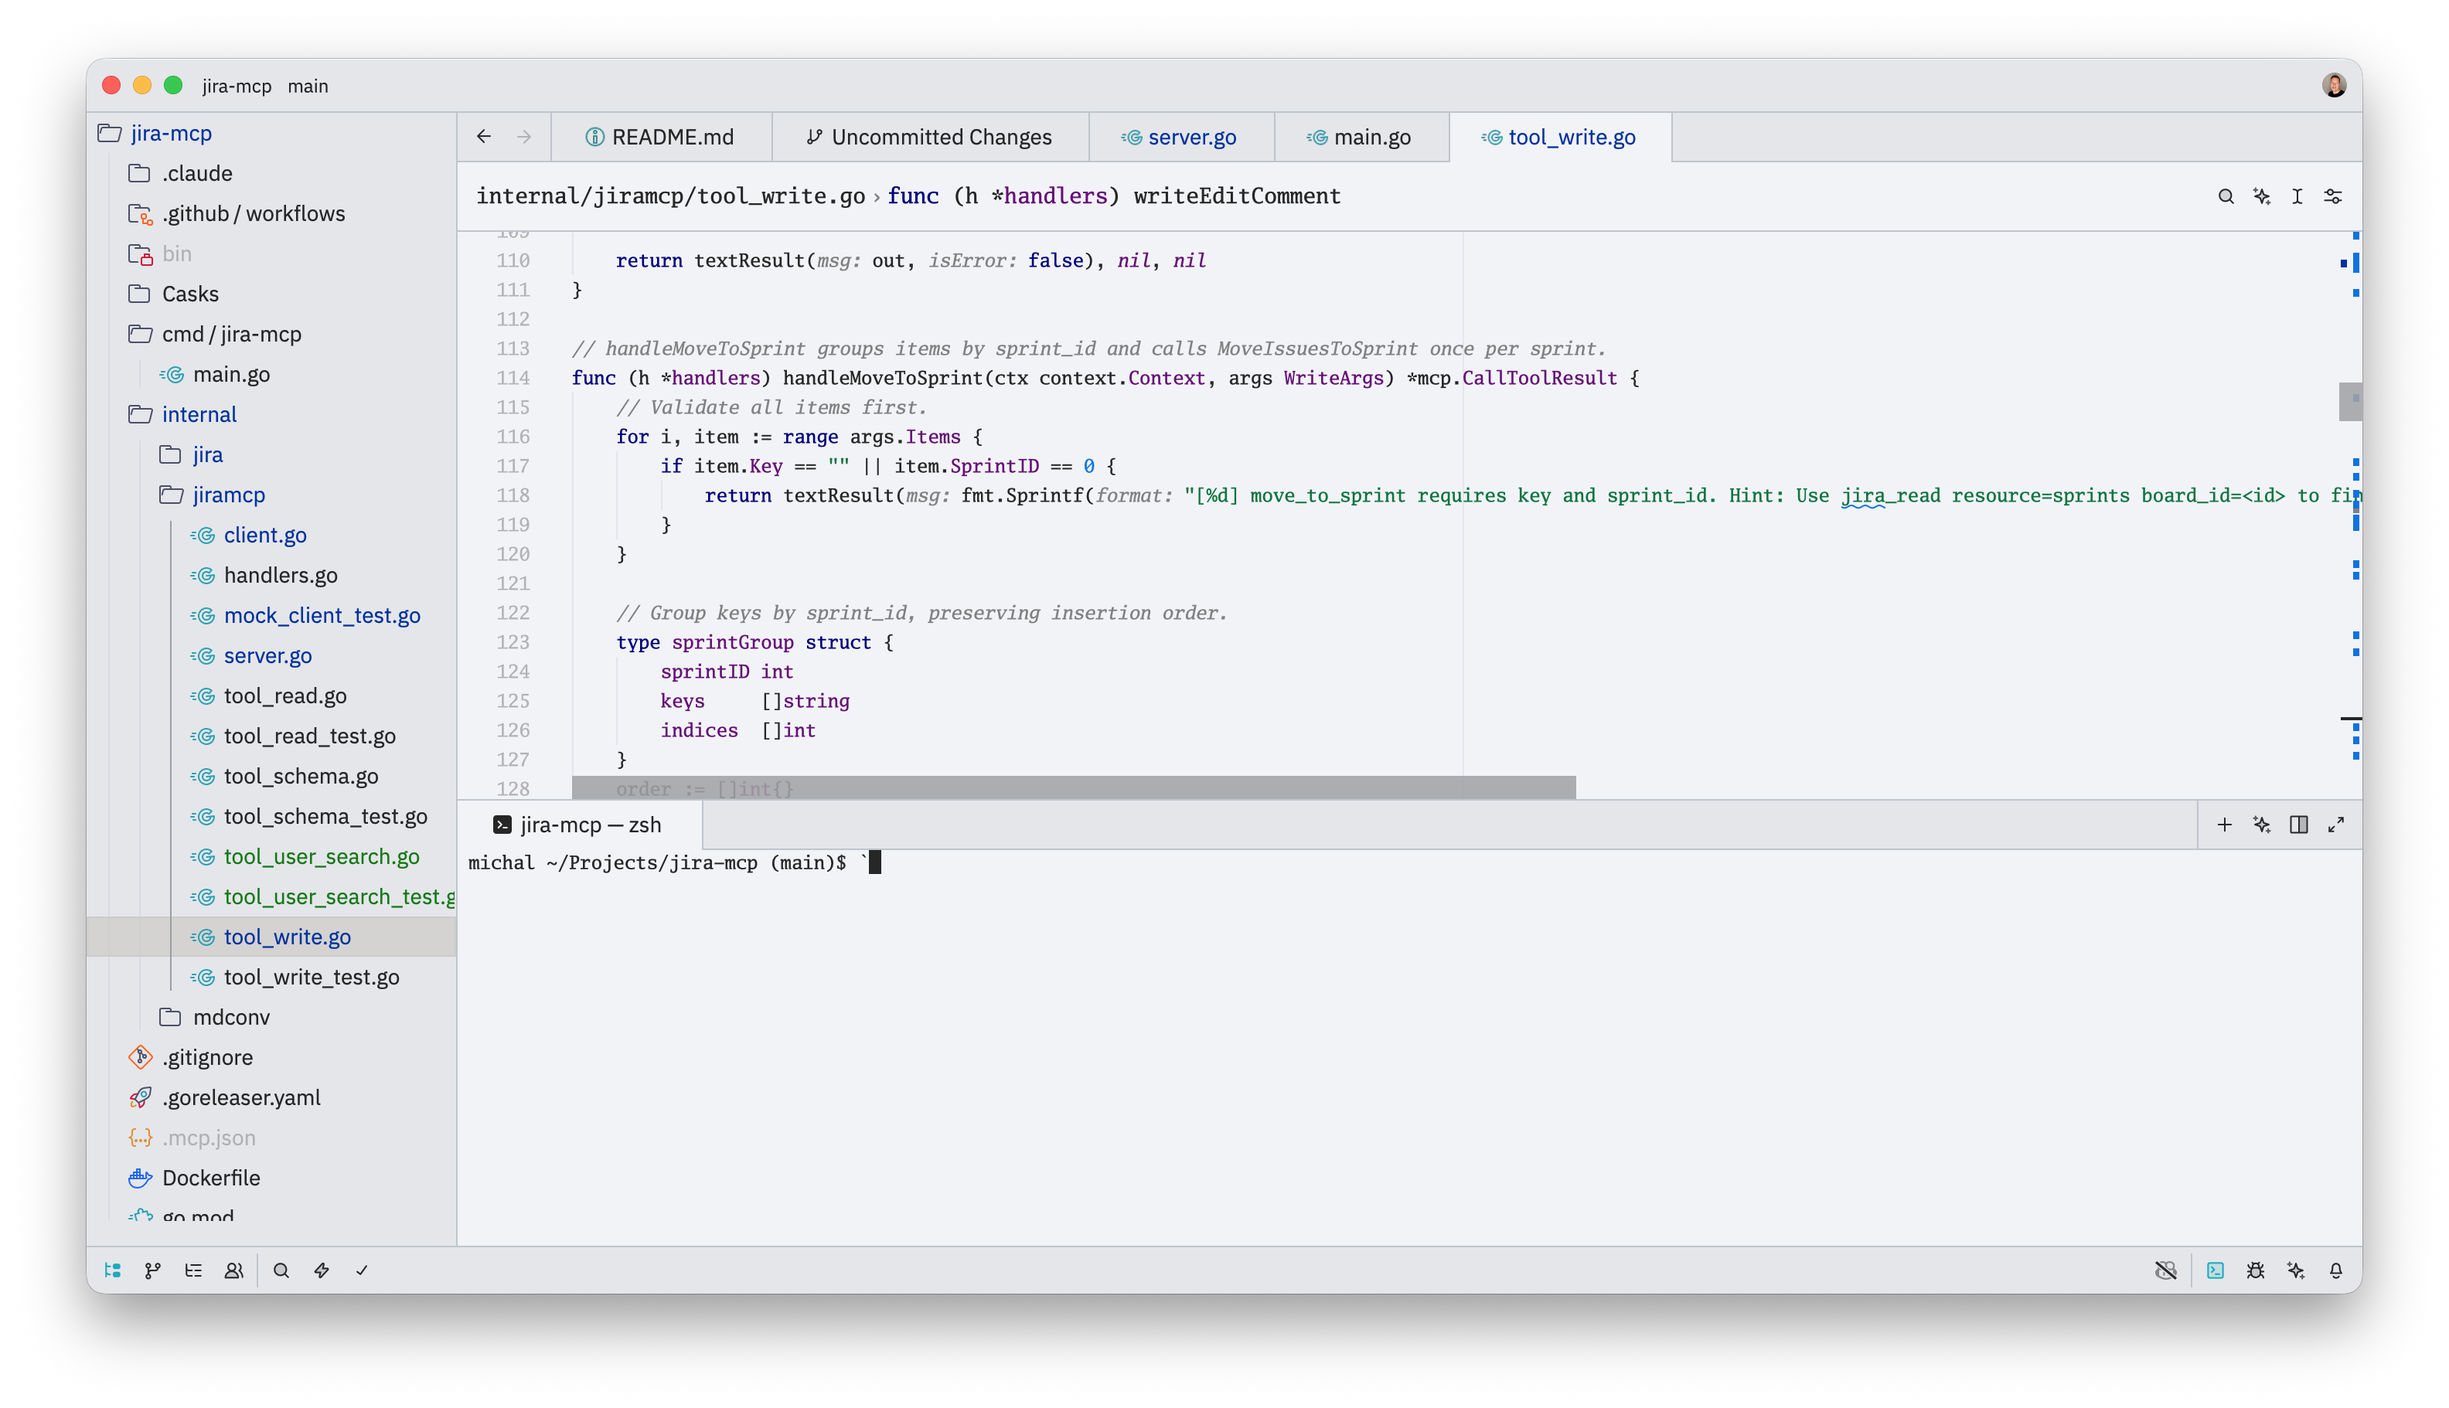
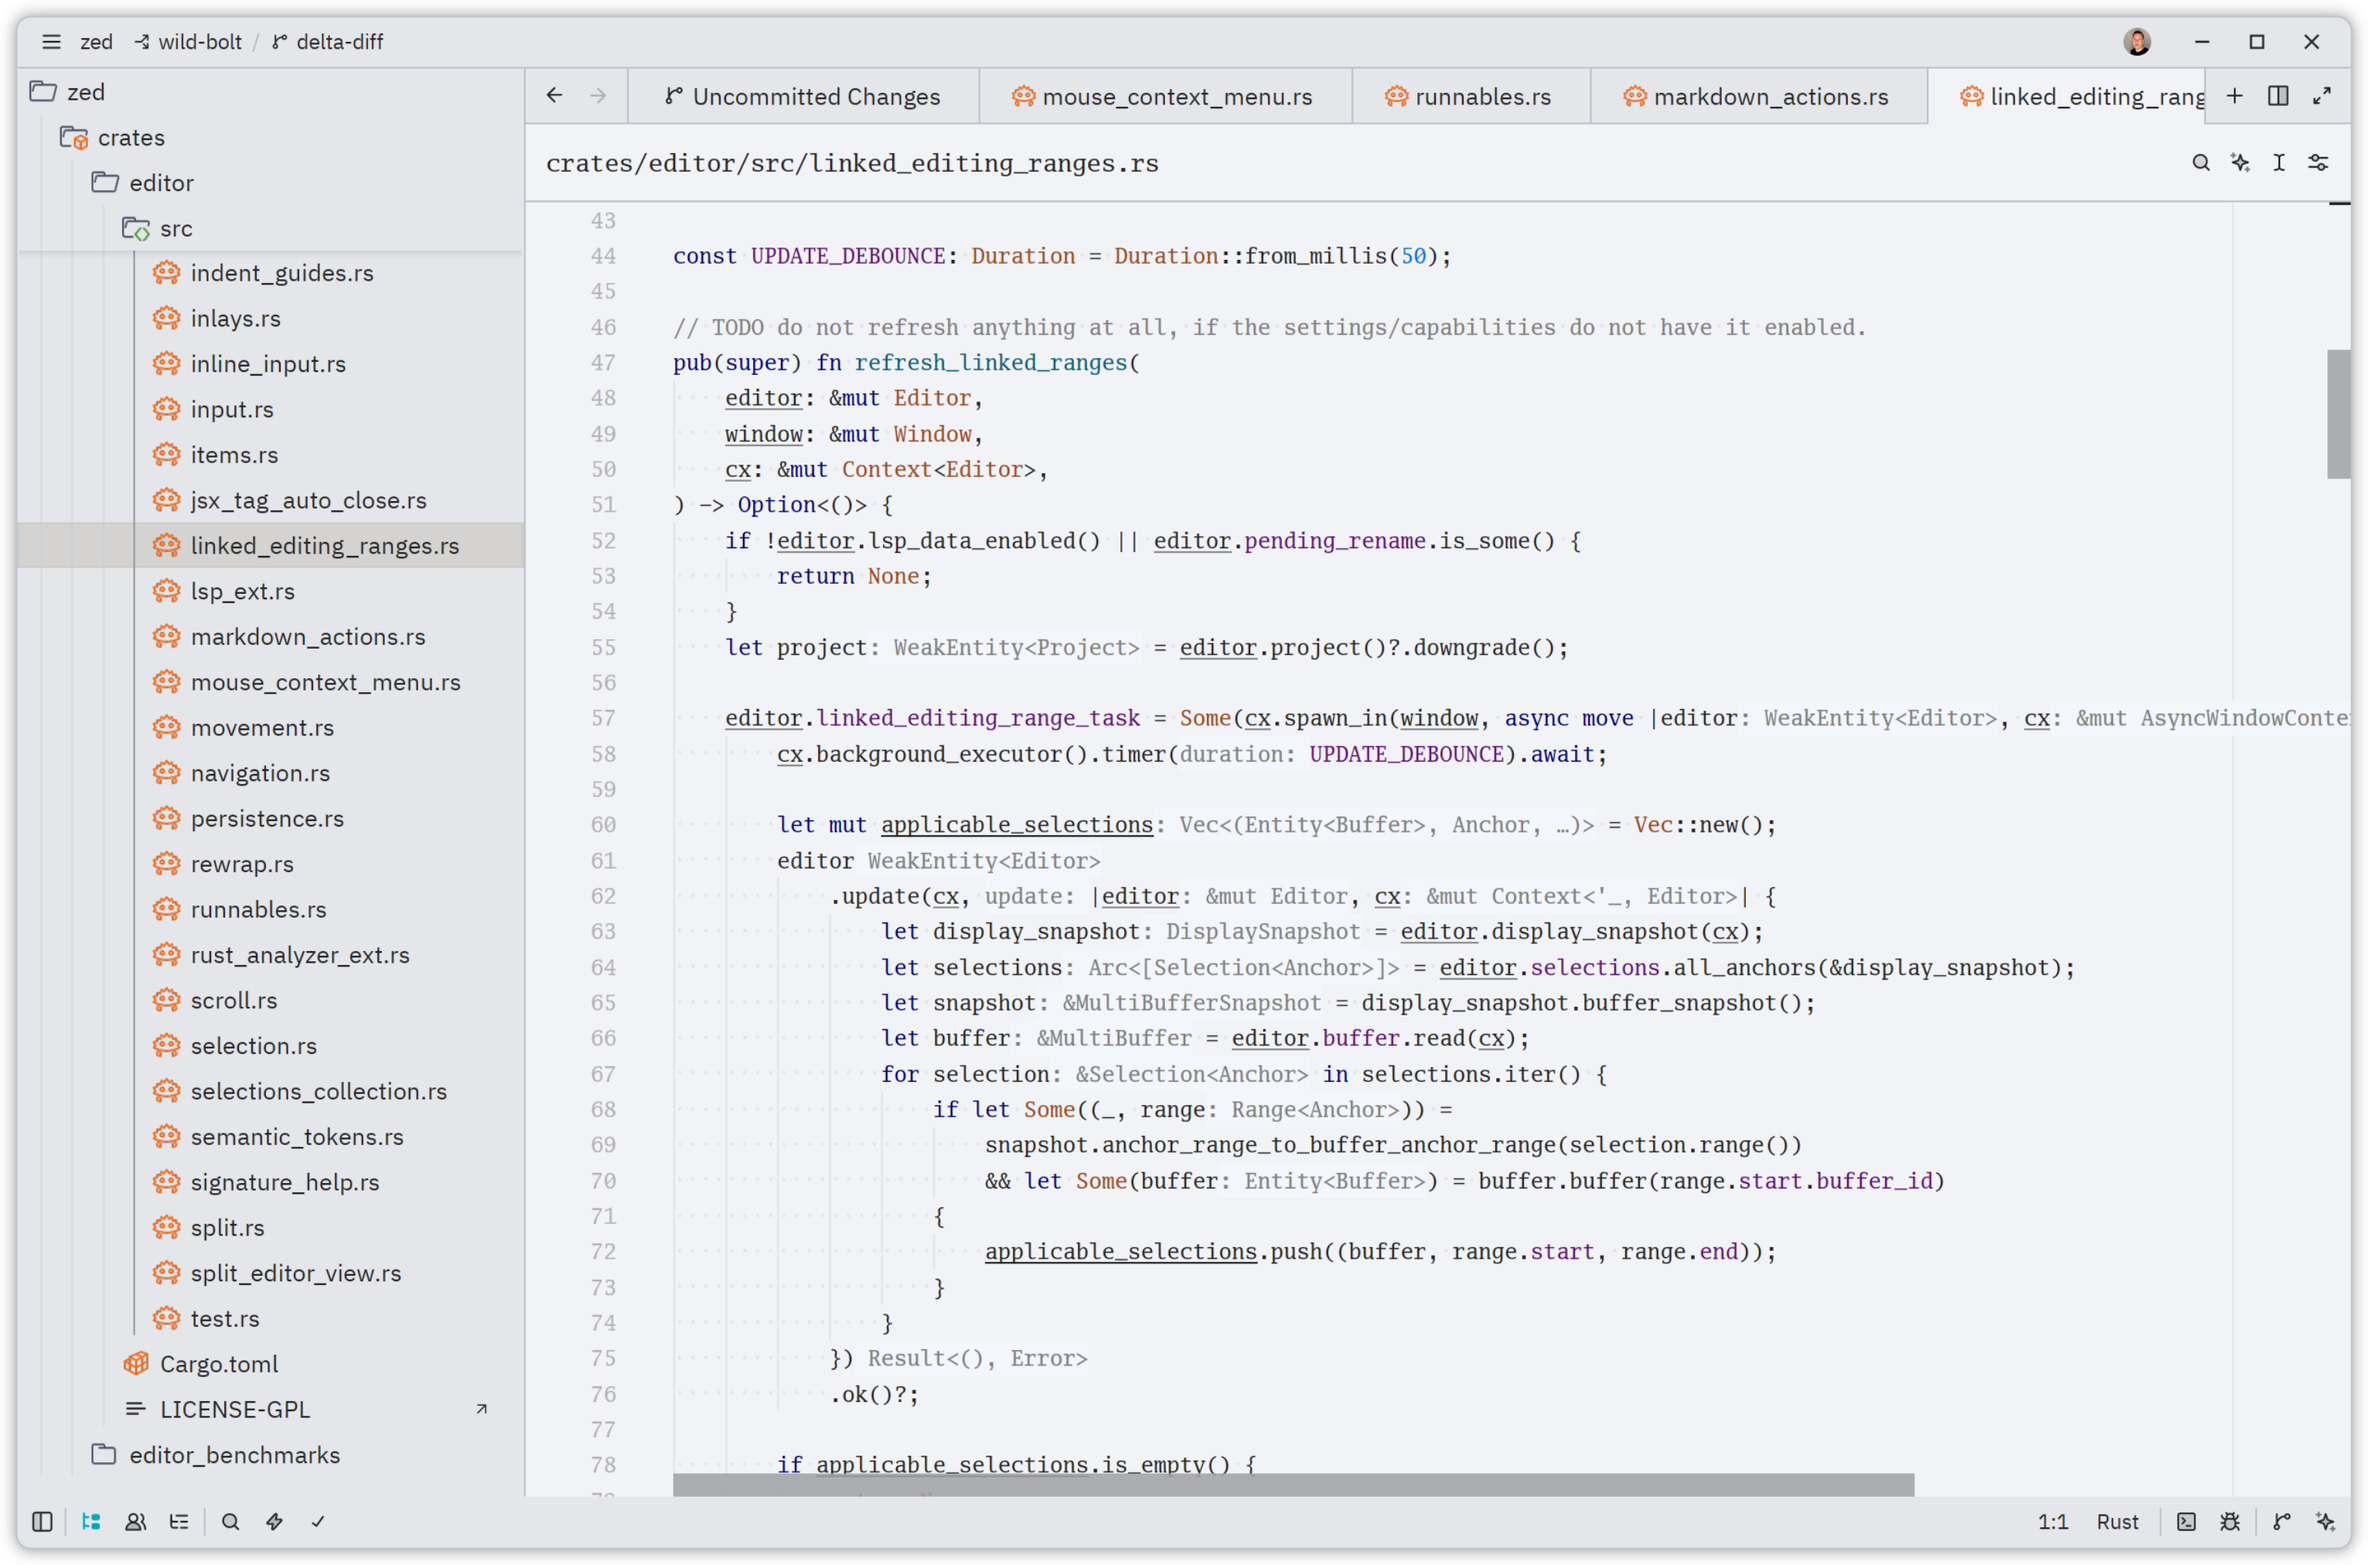
Match RustRover Cyan light theme colors
Derive colors from the installed Cyan light plugin, its parent Default
scheme and RustRover's Rust defaults (RustDefault.xml).

- Rust syntax: functions, macros, types, traits, enums, variants,
  lifetimes, type parameters, self, attributes, format placeholders;
  non-italic comments; black identifiers
- Add exact keys for rust-analyzer semantic tokens and keys used by
  recommended semantic_token_rules
- Editor: caret, selection, word/bracket highlights, guides, gutter
  diff markers
- Terminal: classic console background and foreground
- UI: toolbar/tab backgrounds, project tree hover/selection, lists
- README: document semantic_token_rules needed to match RustRover

diff --git a/README.md b/README.md
@@ -6,6 +6,39 @@ A port of the [Cyan Light Theme](https://plugins.jetbrains.com/plugin/12102-cyan
 
 Search for "Cyan Light Theme 2" in Zed's extension marketplace (`zed: extensions`).
 
+## Matching RustRover
+
+Colors come from the JetBrains theme, its parent `Default` scheme and RustRover's Rust defaults.
+Some Rust highlighting depends on rust-analyzer token modifiers, which a theme can't select.
+To match RustRover, add these to `settings.json` (with `"semantic_tokens": "combined"` or `"full"`):
+
+```jsonc
+"global_lsp_settings": {
+  "semantic_token_rules": [
+    // Primitive types and `Self` as keywords
+    { "token_type": "builtinType", "style": ["type.builtin"] },
+    { "token_type": "selfTypeKeyword", "style": ["keyword"] },
+    // Crate names, trait methods (italic), statics, macro `!`, `#[...]`, `?`
+    { "token_type": "namespace", "token_modifiers": ["crateRoot"], "style": ["namespace.crate"] },
+    { "token_type": "method", "token_modifiers": ["trait"], "style": ["function.method.trait"] },
+    { "token_type": "static", "style": ["constant.static"] },
+    { "token_type": "macroBang", "style": ["function.macro"] },
+    { "token_type": "attributeBracket", "style": ["attribute"] },
+    { "token_type": "operator", "token_modifiers": ["controlFlow"], "style": ["operator.try"] },
+    // Underlined mutable bindings
+    { "token_type": "variable", "token_modifiers": ["mutable"], "underline": "#2b2d30" },
+    { "token_type": "parameter", "token_modifiers": ["mutable"], "underline": "#909090" },
+    { "token_type": "selfKeyword", "token_modifiers": ["mutable"], "underline": "#909090" },
+    // Unsafe operations background
+    { "token_type": "function", "token_modifiers": ["unsafe"], "background_color": "#f8d4c9" },
+    { "token_type": "method", "token_modifiers": ["unsafe"], "background_color": "#f8d4c9" },
+    { "token_type": "operator", "token_modifiers": ["unsafe"], "background_color": "#f8d4c9" }
+  ]
+}
+```
+
+The underline and background colors are fixed values, so they stay when you switch themes.
+
 ## Preview
 
 ![Cyan Light Theme](./assets/preview.png)
